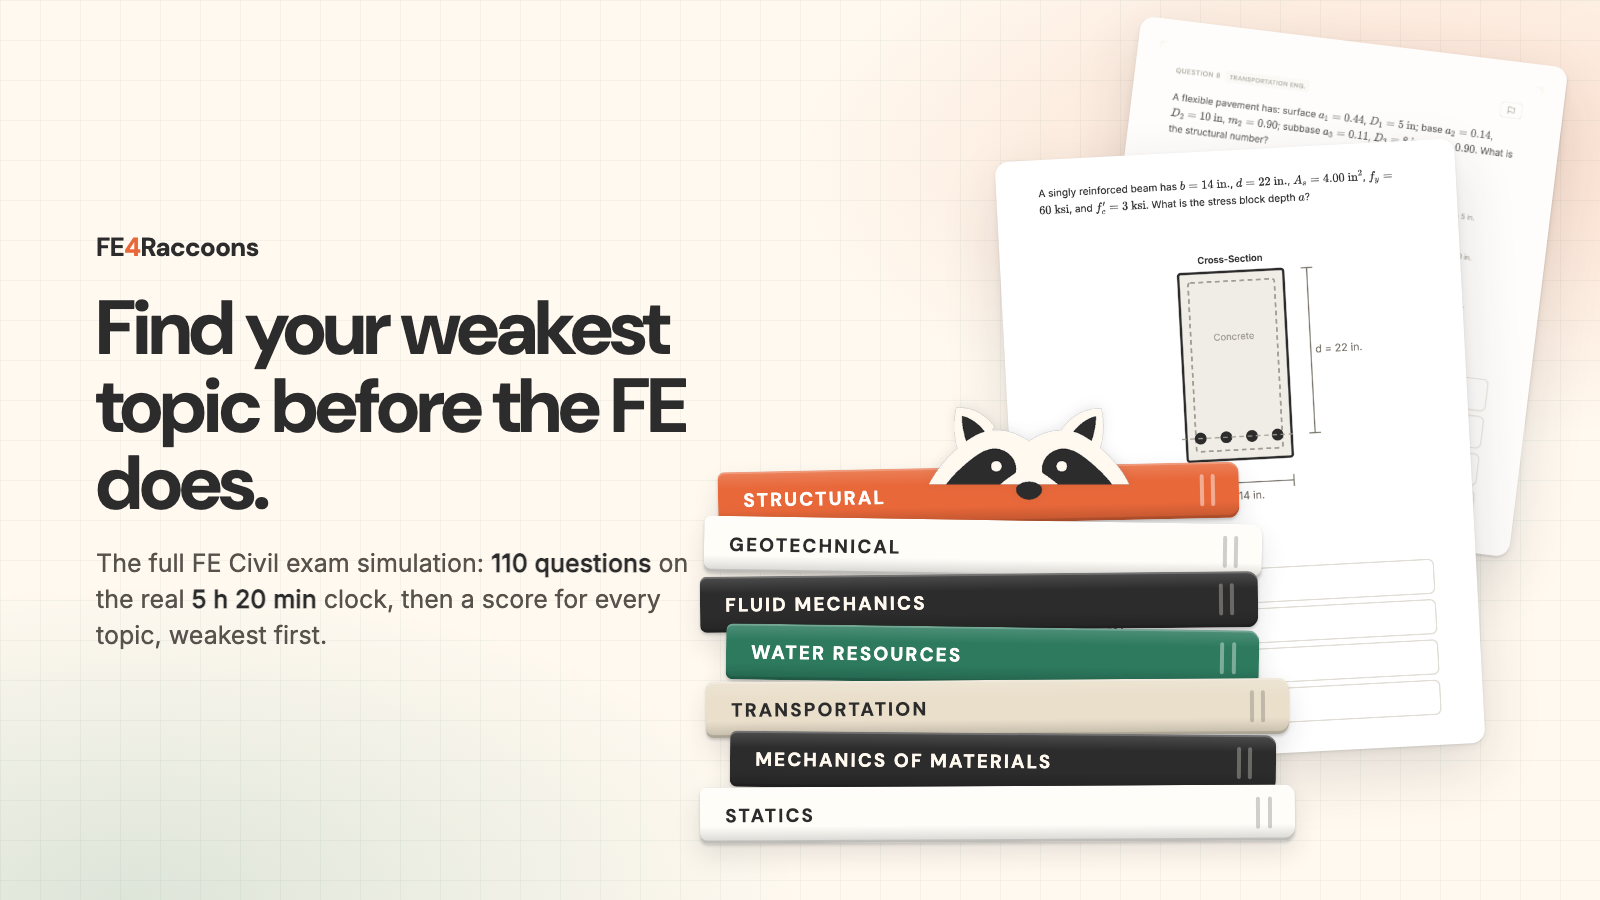
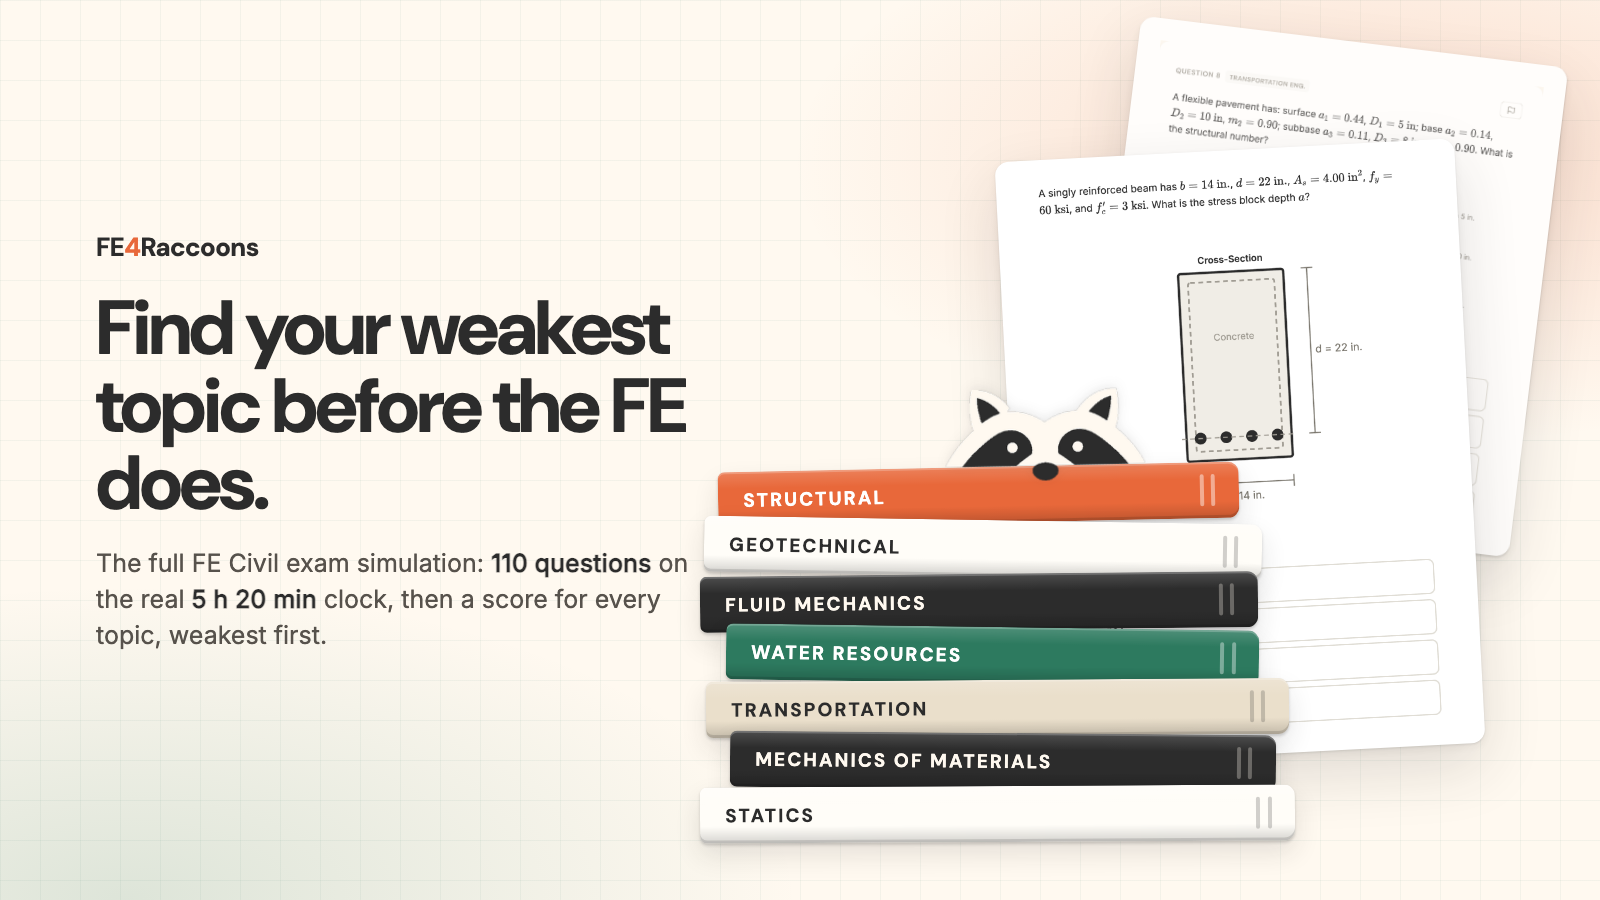
Exam simulation picture: seat the raccoon's face on the book's edge

Changed region(s): [[0.5625, 0.4356, 0.7188, 0.56]]

diff --git a/scripts/sim-image/template.html b/scripts/sim-image/template.html
@@ -115,14 +115,16 @@
   .cr { --c: #FFFDF8; --t: #2C2C2C; --band: rgba(44,44,44,0.22); }
   .sa { --c: #EADFCB; --t: #2C2C2C; --band: rgba(44,44,44,0.22); }
 
-  /* The raccoon peeks over the report's top edge: flat bottom of its face on
-     the edge, nose over the card. */
+  /* The raccoon peeks over the top book, inside it so it tilts with the
+     spine: flat bottom of its face on the edge, nose over the book. */
   .peek {
     position: absolute;
     top: 0;
     width: 230px;
     z-index: 3;
-    transform: translate(-50%, -100%) translateY(var(--peek-dip, 30px));
+    /* The face's flat bottom ends 16.5% above the image's bottom; only the nose
+       hangs below it. Seat the face exactly on the edge. */
+    transform: translate(-50%, -83.5%);
     filter: drop-shadow(0 0 0.6px rgba(44,44,44,0.55)) drop-shadow(0 -2px 6px rgba(44,44,44,0.10));
   }
 
@@ -134,7 +136,7 @@
   .square .p1 { left: 690px; top: 60px; width: 460px; transform: rotate(6deg); }
   .square .p2 { left: 650px; top: 290px; width: 490px; transform: rotate(-3.5deg); }
   .square .stack { left: 70px; top: 672px; width: 700px; --bh: 64px; --bf: 22px; }
-  .square .peek { left: 52%; }
+  .square .peek { left: 62%; }
 
   /* ---- 4:3, 1200 x 900 ---- */
   body.four { --w: 1200px; --h: 900px; }
@@ -143,8 +145,8 @@
   .four .lead { font-size: 22px; }
   .four .p1 { left: 700px; top: 40px; width: 420px; transform: rotate(6deg); }
   .four .p2 { left: 640px; top: 220px; width: 450px; transform: rotate(-3.5deg); }
-  .four .stack { left: 64px; top: 492px; width: 600px; --bh: 54px; --bf: 19px; }
-  .four .peek { left: 53%; width: 200px; }
+  .four .stack { left: 64px; top: 510px; width: 600px; --bh: 54px; --bf: 19px; }
+  .four .peek { left: 63%; width: 200px; }
 
   /* ---- 16:9, 1600 x 900 ---- */
   body.wide { --w: 1600px; --h: 900px; }
@@ -154,7 +156,7 @@
   .wide .p1 { left: 1110px; top: 40px; width: 430px; transform: rotate(7deg); }
   .wide .p2 { left: 1010px; top: 150px; width: 460px; transform: rotate(-3deg); }
   .wide .stack { left: 700px; top: 470px; width: 620px; --bh: 56px; --bf: 19px; }
-  .wide .peek { left: 53%; width: 200px; }
+  .wide .peek { left: 63%; width: 200px; }
 </style>
 </head>
 <body class="square">
@@ -168,8 +170,7 @@
   <div class="page p2"><img src="q-beam.png" alt=""></div>
 
   <div class="stack">
-    <img class="peek" src="raccoon-peek.png" alt="">
-    <div class="book em" style="--w:84;--x:18;--r:-1.2">Structural</div>
+    <div class="book em" style="--w:84;--x:18;--r:-1.2"><img class="peek" src="raccoon-peek.png" alt="">Structural</div>
     <div class="book cr" style="--w:90;--x:4;--r:0.9">Geotechnical</div>
     <div class="book ch" style="--w:90;--x:0;--r:-0.6">Fluid Mechanics</div>
     <div class="book fo" style="--w:86;--x:26;--r:0.8">Water Resources</div>
